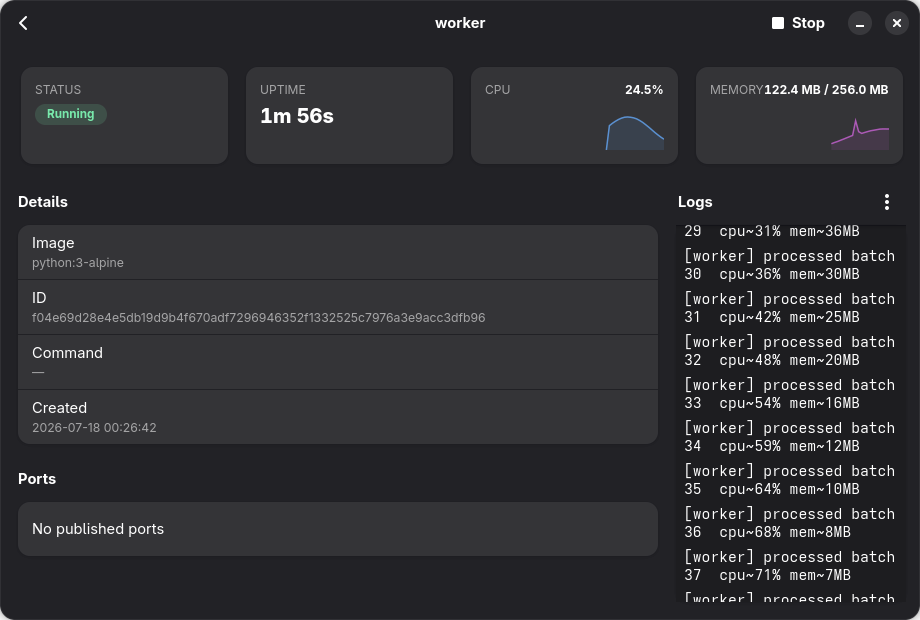
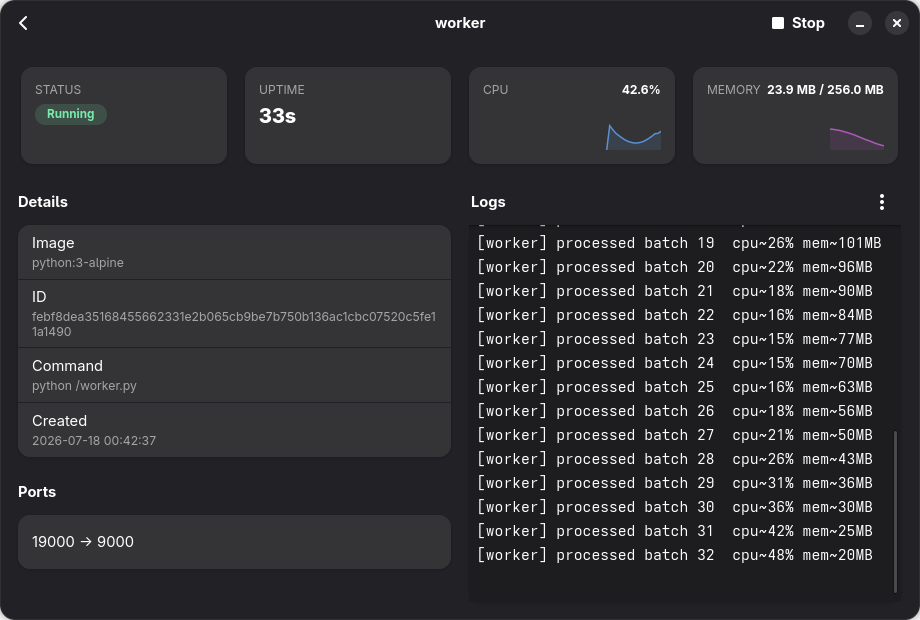
fix: equal-width logs in the wide detail layout (#22)
* fix: give the logs equal width beside details in the wide detail layout

Side-by-side, the info column's widest row (the 64-char container ID) inflated
its natural width and starved the log panel. Make the body box homogeneous when
horizontal so the two columns split 50/50. Homogeneous rides the same breakpoint
as the orientation flip, so it's restored (to false) when the layout stacks,
where forcing equal heights would be wrong.

* docs: refresh the detail screenshot for the equal-width logs

The demo container now runs a mounted script (python /worker.py) so the Command
and Ports rows render fully, and the logs sit in their now-equal half.

---------

diff --git a/src/components/container_detail.rs b/src/components/container_detail.rs
@@ -412,6 +412,12 @@ impl Component for ContainerDetailPage {
                 "orientation",
                 Some(&gtk::Orientation::Horizontal.to_value()),
             );
+            // Split the row 50/50. Without this the info column's widest row —
+            // the 64-char container ID — inflates its natural width and starves
+            // the logs. Homogeneous only makes sense side-by-side, so it rides
+            // the breakpoint too and is restored (to false) when stacked, where
+            // equal *heights* would be wrong.
+            breakpoint.add_setter(&widgets.body, "homogeneous", Some(&true.to_value()));
             widgets.breakpoint_bin.add_breakpoint(breakpoint);
         }
 